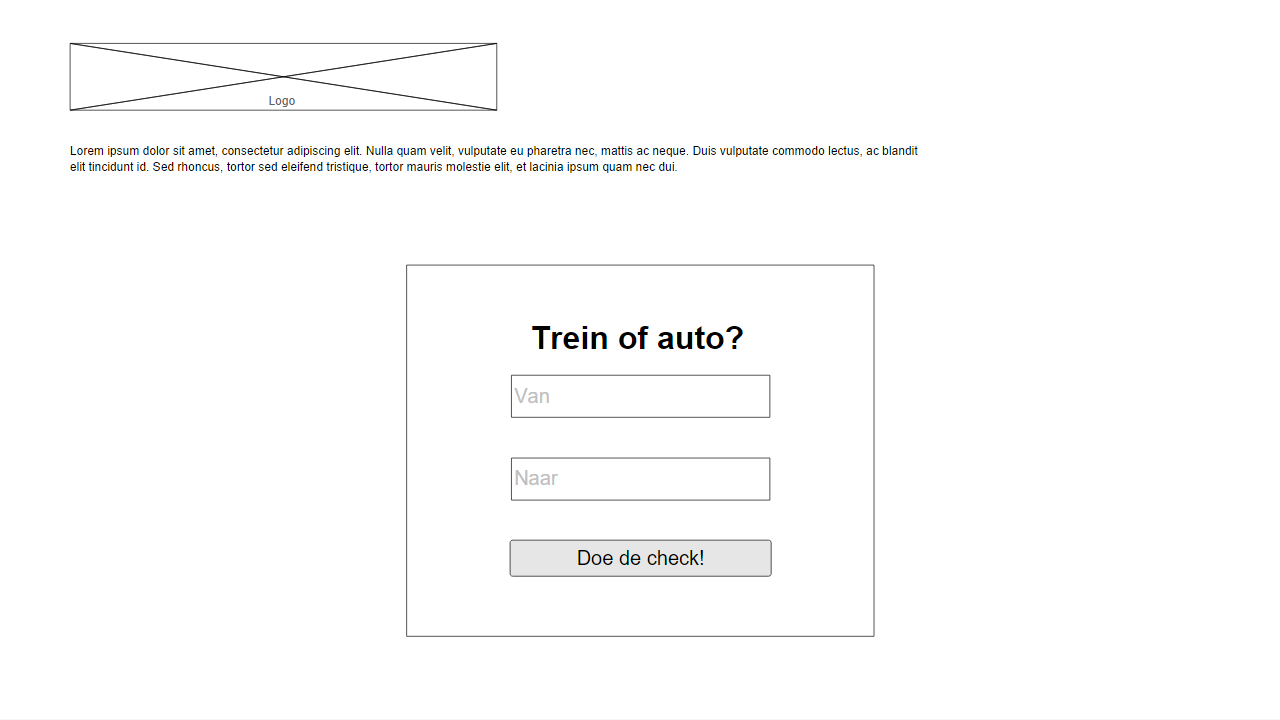
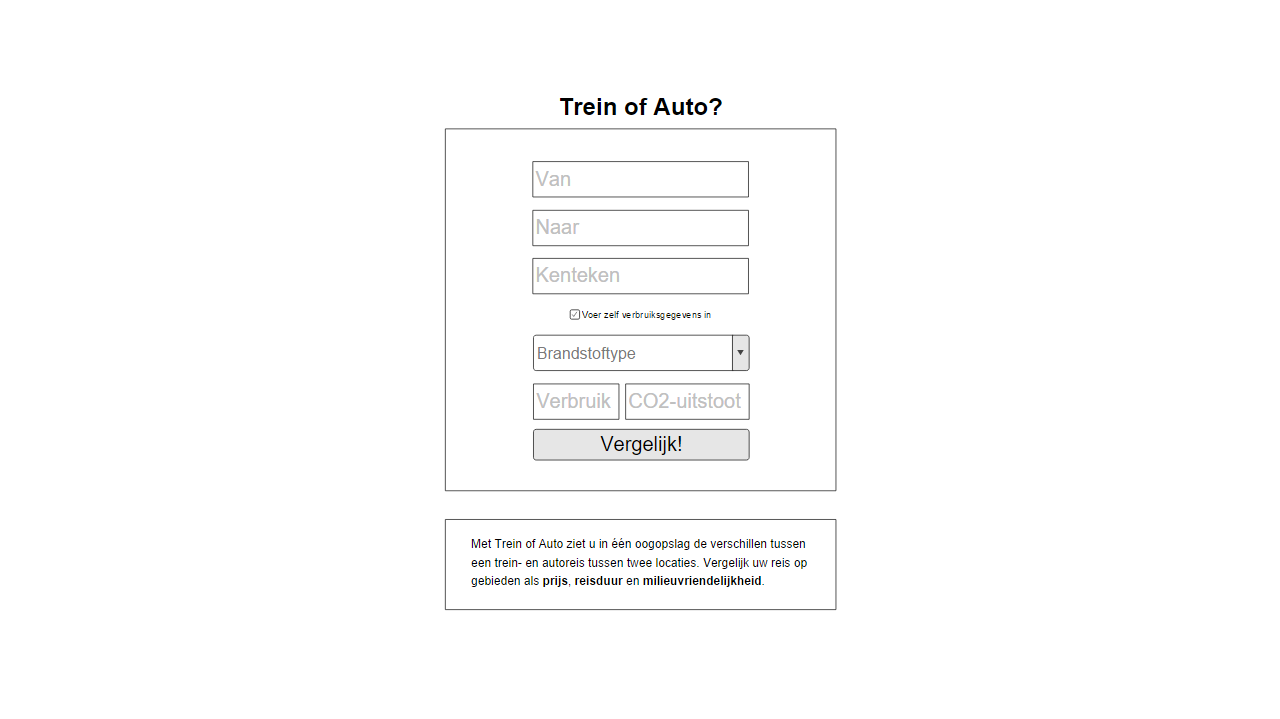
Dag 16: Actiepunten vastgesteld, wireframes en schetsen gemaakt

diff --git a/README.md b/README.md
@@ -6,20 +6,23 @@ We kennen het allemaal: met half dichtgeknepen oogjes kruip je 's ochtends uit b
 
 Of misschien heb je wel een dure maand gehad. Na de kerstcadeautjes voor je familie en die wintervoorraad drank voor oud en nieuw, moet je concluderen dat je nog heel veel maand overhebt an het einde van je geld. Waar kies je voor als budgetbewuste reiziger: de trein of de auto?
 
-De webapplicatie "Trein of Auto" is bedoeld om antwoord te geven op deze vragen. Je geeft je beginlocatie en eindbestemming op en op basis van de huidige benzineprijzen en NS-gegevens berekent de applicatie automatisch wat goedkoper en/of sneller is: de auto of de trein.
+De webapplicatie "Trein of Auto" is bedoeld om antwoord te geven op deze vragen. Je geeft je beginlocatie en eindbestemming op en door verschillende databronnen te combineren, berekent de applicatie automatisch wat goedkoper en/of sneller is: de auto of de trein.
 
+## Delen van de applicatie
+De applicatie bestaat uit drie delen:
+* Het **startscherm**, waarin de gebruiker zijn beginbestemming, eindlocatie en nummerbord opgeeft. Ook kan de gebruiker hier desgewenst zelf de verbruiksgegevens van zijn auto invoeren, bijvoorbeeld als hij het nummerbord van zijn auto niet weet.
+* Het **resultatenscherm**, dat onderverdeeld is in een stuk met "algemene" informatie en vier detailtabs. Omdat deze pagina uit meerdere delen bestaat en veel visualisaties bevat, heb ik deze hieronder gevisualiseerd in een overzichtelijk diagram. 
+
+<img src="doc/charts/result.png" />
 
 ## Wireframes
-Hieronder volgen wireframes van de drie pagina's, zoals beschreven in de paragraaf "Delen van de applicatie".
+Hieronder volgen wireframes van de twee pagina's, zoals beschreven in de paragraaf "Delen van de applicatie".
 
 ### Startscherm
 <img src="doc/wireframes/start.png" />
 
 ### Resultatenscherm
 <img src="doc/wireframes/resultaten.png" />
-
-### Detailscherm
-<img src="doc/wireframes/detail.png" />
 
 
 ## Benodigde datasets
@@ -30,13 +33,6 @@ Benodigde API's:
 Benodigde datasets:
 * [Fuel Economy Data] (https://www.fueleconomy.gov/feg/download.shtml): Officiële verzameling datasets van de Amerikaanse overheid. Toont van vrijwel elk voertuig in de wereld het brandstofverbruik in "miles per gallon" (kan omgerekend worden naar "liter per 100 km") en het type benzine. Ik zal de verschillende datasets (ze zijn gescheden per jaar) combineren en uitlezen met PHP.
 * [United Consumers] (https://www.unitedconsumers.com/tanken/informatie/brandstof-prijzen.asp): Helaas is er voor Nederland geen dataset of API waarmee de huidige brandstofprijs opgehaald kan worden. Daarom ben ik genoodzaakt deze prijs te crawlen van een webpagina. Voor mijn applicatie gebruik ik de pagina van United Consumers, omdat die de meest uitgebreide informatie toont (namelijk ook de prijzen per benzinestation).
-
-
-## Delen van de applicatie
-De applicatie bestaat uit drie delen:
-* Het **startscherm**, waarin de gebruiker zijn beginbestemming en eindlocatie opgeeft.
-* Het **resultatenscherm**, die in één oogopslag toont welke optie het goedkoopst is en welke het snelst is.
-* Het **detailscherm**, met daarin visualisaties van de reisduur, de prijs en eventueel de route.
 
 
 ## Platform en API's

diff --git a/DESIGN.md b/DESIGN.md
@@ -13,12 +13,18 @@ Leon Kempers, 10626646.
 Deze sectie beschrijft het framework van mijn applicatie.
 
 ## Classes
-Ik zal een "Gas" PHP class gebruiken voor alle functies die betrekking hebben op de benzine(prijzen) en een “Database” PHP class om verbinding te maken met de MYSQL database. Ik weet nog niet of ik Javascript classes zal gebruiken.
+Ik zal een "Gas" PHP class gebruiken voor alle functies die betrekking hebben op de benzine(prijzen) en een "Database" PHP class om verbinding te maken met de MYSQL database. Ik weet nog niet of ik Javascript classes zal gebruiken.
 
 ## UI-schetsen
-<img src="doc/sketches/start.jpg" />
 
-<img src="doc/sketches/result.jpg" />
+### Startpagina
+<img src="doc/sketches/start.png" />
+
+### Resultatenpagina
+<img src="doc/sketches/result.png" />
+
+### Resultatenpagina (incl. functies en classes)
+<img src="doc/sketches/result_annotated.png" />
 
 ## Frameworks and API's
 “Trein of auto” gebruikt de volgende frameworks:

diff --git a/PROCESS.md b/PROCESS.md
@@ -227,3 +227,17 @@ Vrijdag 22 januari 2016
 
 ## Complicaties
 * Ik kwam er vandaag achter dat de prijsmatrix van de NS niet voor ieder station compleet is. Dat kan ik zelf niet oplossen, helaas.
+
+
+# Dag 16
+Maandag 25 januari 2016
+
+* Noot: vanaf vandaag beschrijf ik geen "Belangrijke besluiten" meer, omdat ik deze (nu mijn beta-versie is voltooid) niet meer zal maken.
+
+## Bereikte mijlpalen
+* Nog enkele verbeterpunten voor mijn visualisatie vastgesteld (o.a. qua kleurgebruik en klasse-grenzen).
+* Wireframes en schetsen gemaakt van definitieve design.
+* Readme- en Design-documenten bijgewerkt.
+
+## Complicaties
+* Vandaag waren er geen grote complicaties.
